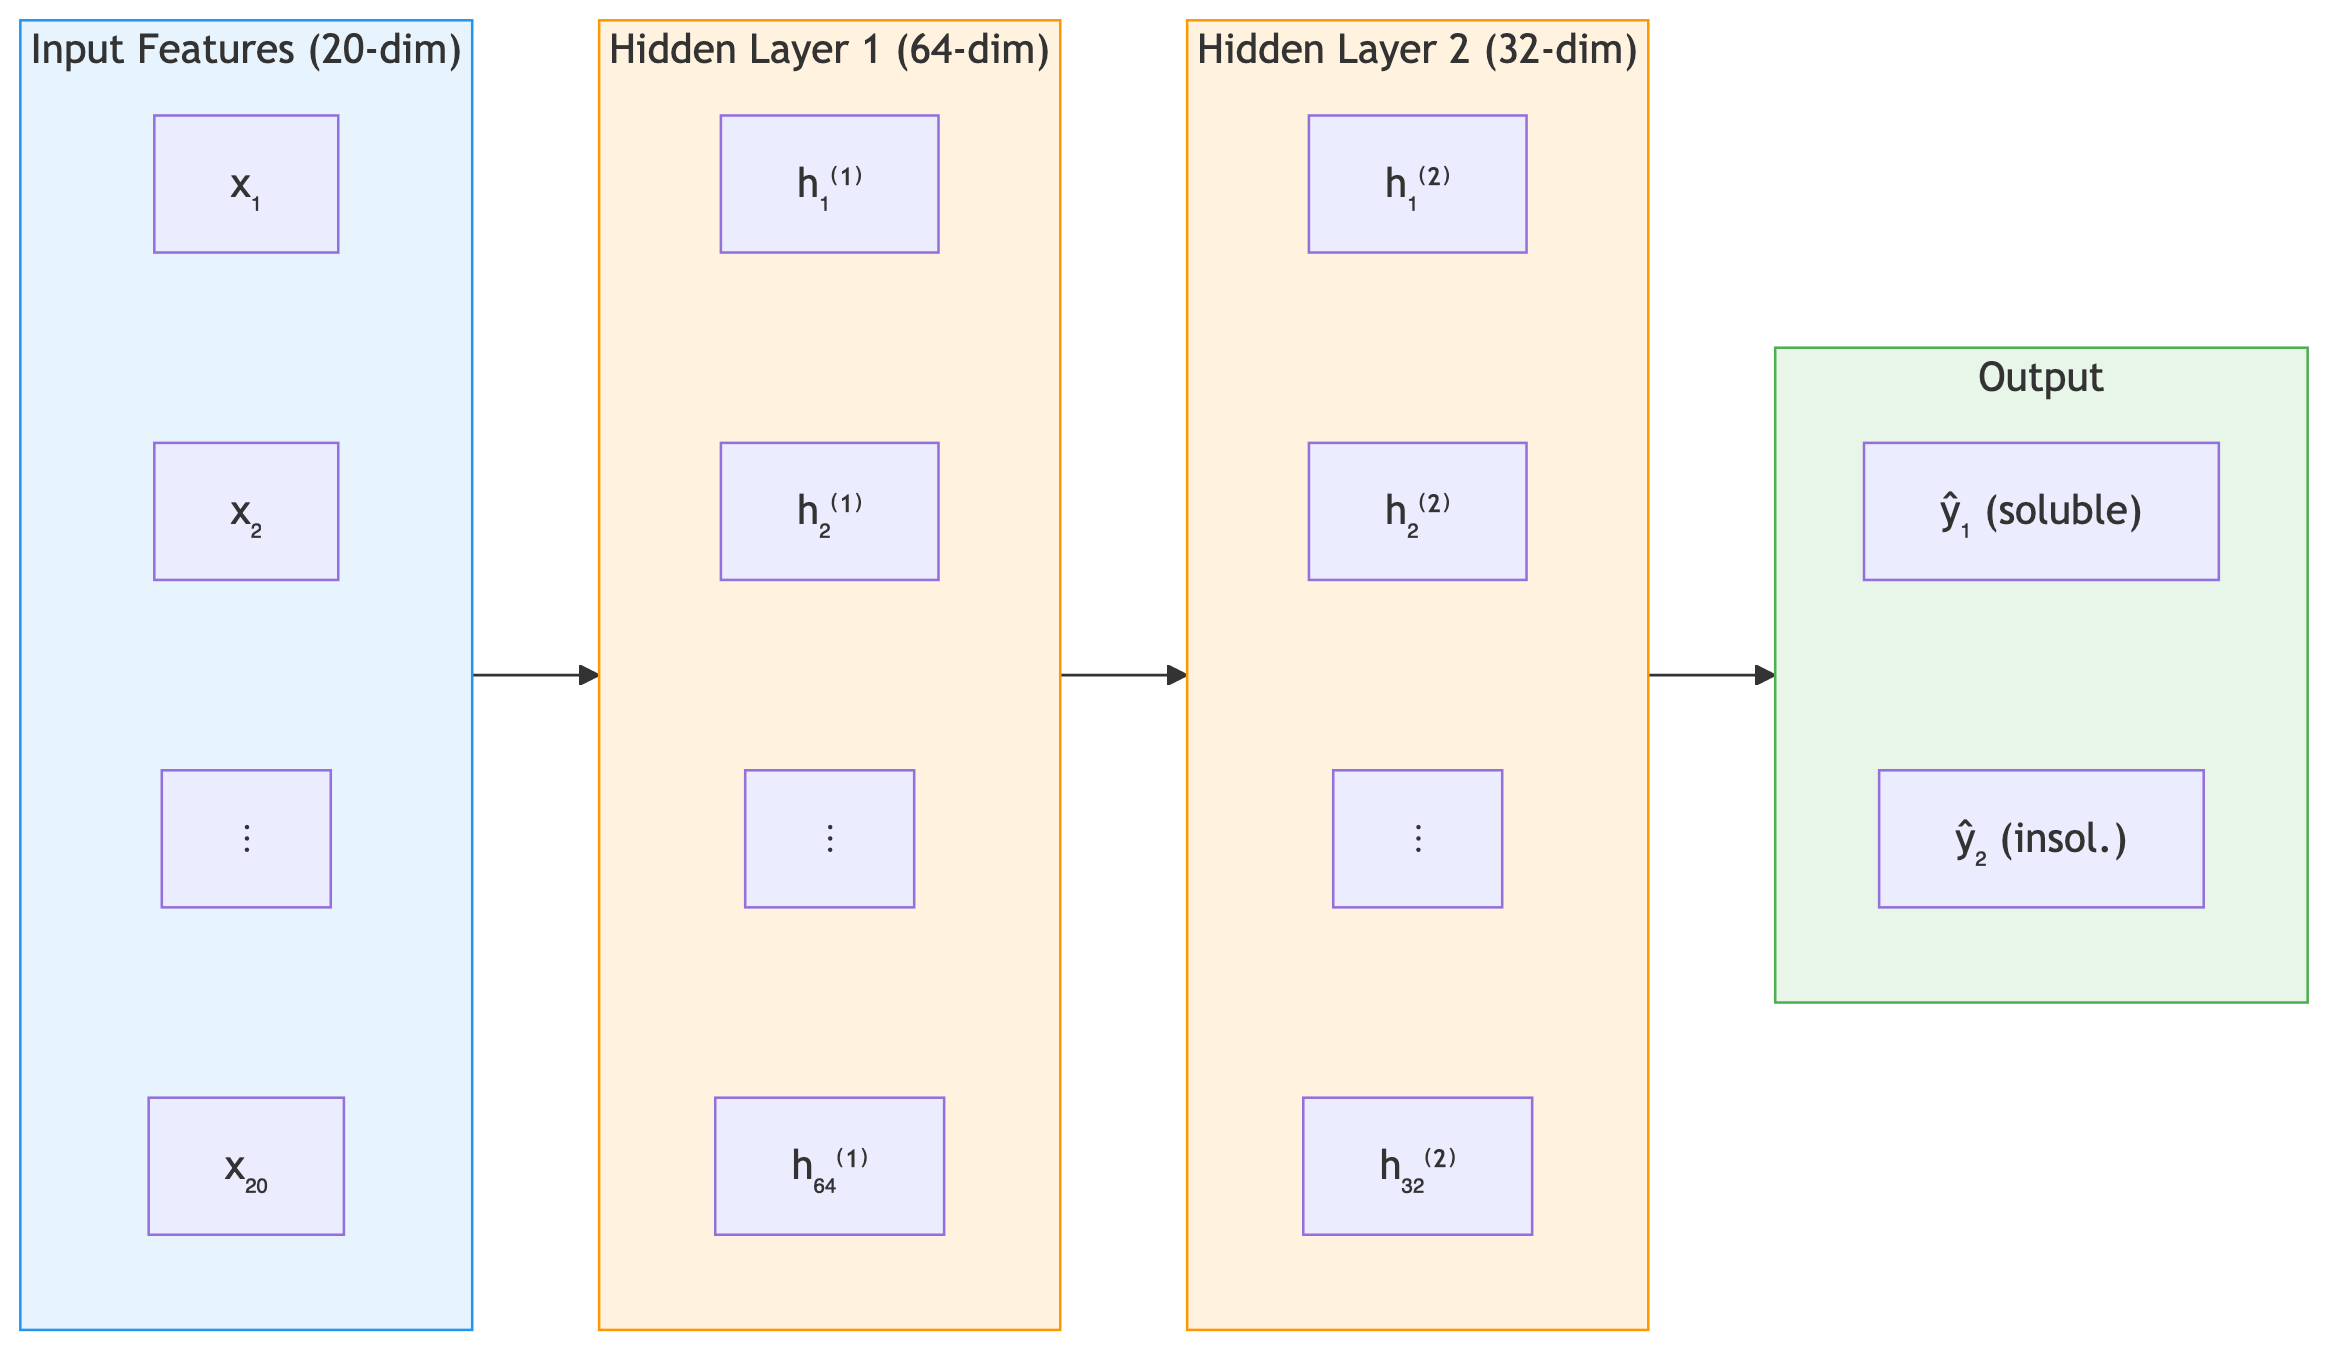
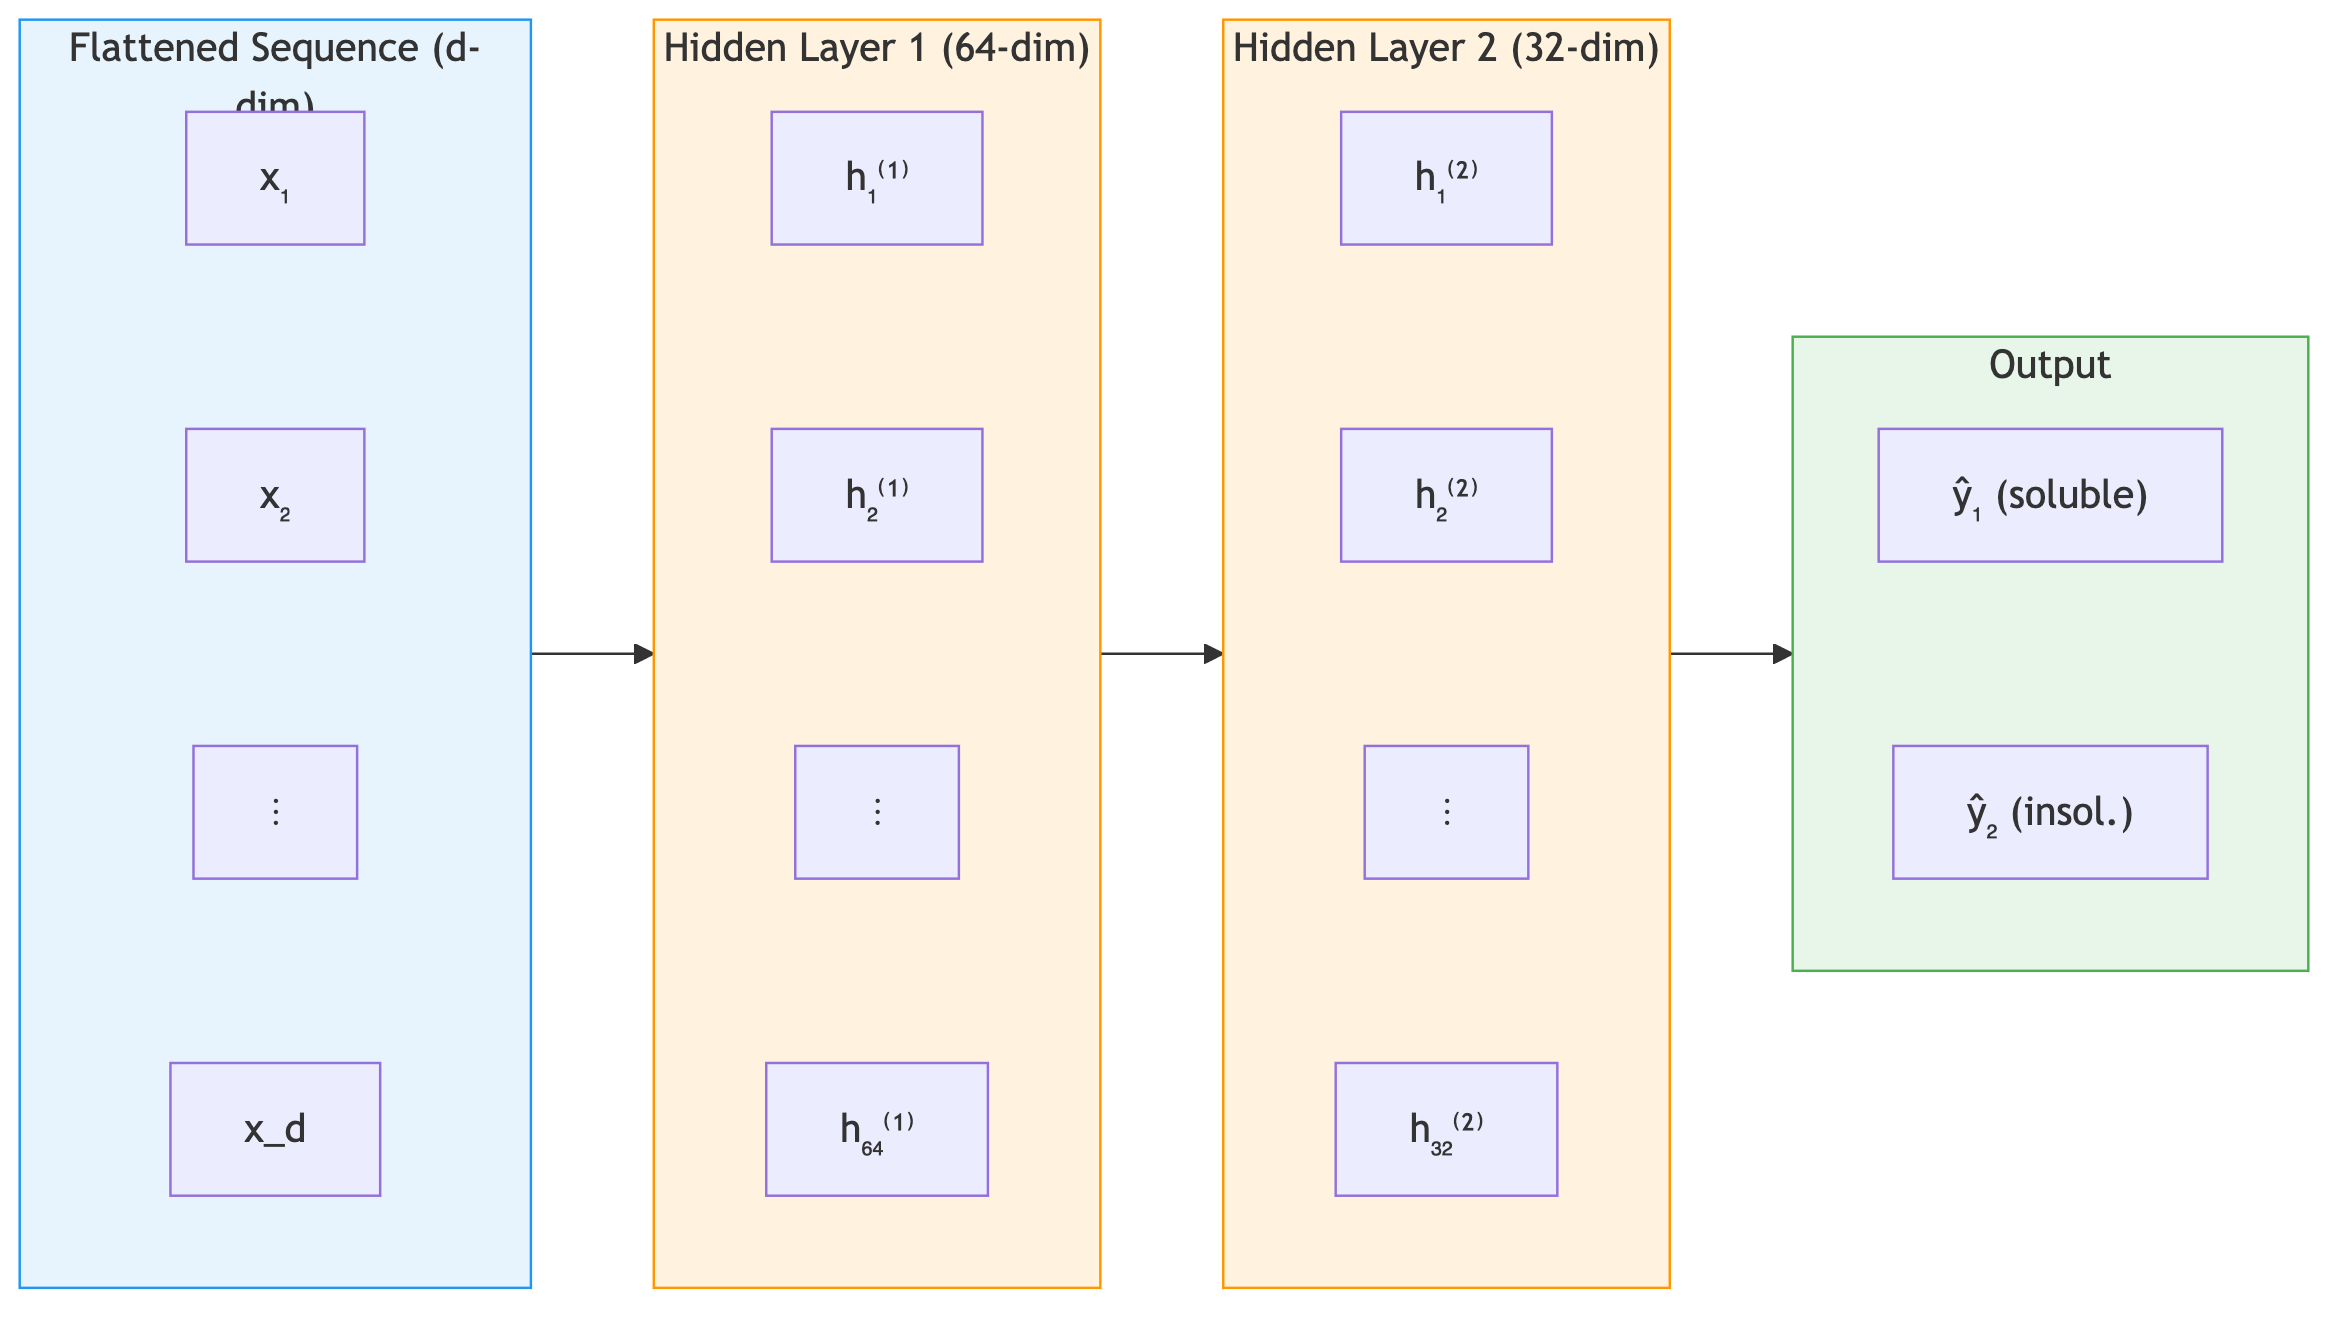
docs: Switch P2 to sequence-based features with padding and flattening
Replace composition-based 20-dim input with flattened padded one-hot
sequences (max_len × 20). Update dimension references throughout P2
Sections 2-3, MLP diagram, and P4 CNN motivation paragraph.

diff --git a/_teaching/protein-ai-s26-02-preliminary-protein-data.md b/_teaching/protein-ai-s26-02-preliminary-protein-data.md
@@ -248,7 +248,12 @@ Its limitation is that it treats every amino acid as equally different from ever
 
 A neural network does not process one protein at a time.
 Training requires **batches** --- groups of proteins processed together for computational efficiency.
-PyTorch provides `TensorDataset` and `DataLoader` to handle this.
+But proteins have different lengths, so we must **pad** every sequence to a common length before stacking them into a tensor.
+
+After one-hot encoding, each protein of length $$L$$ is a matrix of shape $$(L, 20)$$.
+We choose a fixed maximum length $$\text{max\_len}$$, pad shorter proteins with zero vectors, and truncate longer ones.
+Stacking $$B$$ proteins gives a 3D tensor of shape $$(B, \text{max\_len}, 20)$$.
+For an MLP, which expects a flat vector as input, we **flatten** each protein's matrix into a single vector of dimension $$\text{max\_len} \times 20$$.
 
 ```python
 from torch.utils.data import TensorDataset, DataLoader
@@ -257,36 +262,42 @@ from torch.utils.data import TensorDataset, DataLoader
 sequences = ["MGKIIGIDLG...", "MSKGEELFTG...", "MVLSPADKTN..."]
 labels = [1, 1, 0]  # 1 = soluble, 0 = insoluble
 
-# One-hot encode and pad to the same length
-max_len = max(len(s) for s in sequences)
+# One-hot encode and pad to a fixed maximum length
+max_len = 100  # Truncate longer proteins, pad shorter ones with zeros
 features = torch.zeros(len(sequences), max_len, 20)
 for i, seq in enumerate(sequences):
-    features[i, :len(seq)] = one_hot_encode(seq)
+    L = min(len(seq), max_len)
+    features[i, :L] = one_hot_encode(seq[:L])
 labels = torch.tensor(labels, dtype=torch.long)
 
-print(features.shape)  # torch.Size([3, max_len, 20]) — 3 proteins, padded
-print(labels.shape)     # torch.Size([3])
+print(features.shape)  # torch.Size([3, 100, 20]) — 3 proteins, padded
+
+# Flatten each protein's matrix into a single vector for the MLP
+features_flat = features.view(len(sequences), -1)
+print(features_flat.shape)  # torch.Size([3, 2000]) — ready for MLP input
 
 # Wrap in a dataset and data loader
-dataset = TensorDataset(features, labels)
+dataset = TensorDataset(features_flat, labels)
 loader = DataLoader(dataset, batch_size=32, shuffle=True)
 
 # Training loop iterates over batches
 for batch_features, batch_labels in loader:
-    # batch_features shape: (batch_size, max_len, 20)
+    # batch_features shape: (batch_size, 2000)
     # batch_labels shape:   (batch_size,)
     pass  # feed to neural network (Section 3)
 ```
 
 The `DataLoader` handles shuffling, batching, and iterating.
-Each call yields a batch of feature tensors and their corresponding labels, ready to be passed through a neural network.
+Each call yields a batch of flattened feature vectors and their corresponding labels, ready to be passed through a neural network.
+Note that flattening discards the sequential structure --- the MLP treats position 1 and position 100 as unrelated inputs.
+Preliminary Note 4 introduces convolutional networks that exploit the sequential ordering.
 
 ---
 
 ## 3. Neural Network Architectures
 
-We now have protein features --- one-hot encoded sequences --- packaged as PyTorch tensors.
-But a feature tensor is not a prediction.
+We now have protein features --- one-hot encoded sequences, padded and flattened into fixed-length vectors --- packaged as PyTorch tensors.
+But a feature vector is not a prediction.
 To predict whether a protein is soluble from its sequence features, we need a function that maps the input to an output.
 In Preliminary Note 1, we saw that a linear model $$\hat{y} = \mathbf{W}\mathbf{x} + b$$ can do this, but it is limited to straight-line relationships.
 Neural networks overcome this limitation by composing simple operations into powerful function approximators that learn internal **representations** --- abstract, task-relevant encodings of the input --- in their hidden layers.
@@ -313,7 +324,7 @@ $$
 
 This is exactly **logistic regression** --- the classification analogue of the linear regression we saw in Preliminary Note 1.
 The neuron's output is a probability, and the **decision boundary** is the set of points where $$\mathbf{w}^T \mathbf{x} + b = 0$$ (i.e., where the output probability is exactly 0.5).
-In 2D feature space, this boundary is a line; in 20-dimensional feature space, it is a hyperplane.
+In 2D feature space, this boundary is a line; in the high-dimensional space of our flattened sequence features, it is a hyperplane.
 Points on one side are classified as soluble, points on the other as insoluble.
 
 A single neuron can only learn linear decision boundaries.
@@ -327,23 +338,24 @@ This is sufficient for linearly separable problems but fails when the boundary b
 
 A single neuron is limited.
 But arrange many neurons in parallel --- each receiving the same input features but with *different* weights --- and you get a **layer**.
-With 64 neurons processing a 20-dimensional input, you get a 64-dimensional **representation** --- 64 different weighted combinations of the input features.
+With 64 neurons processing a $$d$$-dimensional input, you get a 64-dimensional **representation** --- 64 different weighted combinations of the input features.
 This can be written compactly as a matrix equation:
 
 $$
 \mathbf{h} = \sigma(\mathbf{W}\mathbf{x} + \mathbf{b})
 $$
 
-Let us trace the dimensions explicitly. With a 20-dimensional input:
+Let us trace the dimensions explicitly:
 
 $$
-\underbrace{\mathbf{W}}_{64 \times 20} \underbrace{\mathbf{x}}_{20 \times 1} + \underbrace{\mathbf{b}}_{64 \times 1} = \underbrace{\mathbf{z}}_{64 \times 1} \xrightarrow{\sigma} \underbrace{\mathbf{h}}_{64 \times 1}
+\underbrace{\mathbf{W}}_{64 \times d} \underbrace{\mathbf{x}}_{d \times 1} + \underbrace{\mathbf{b}}_{64 \times 1} = \underbrace{\mathbf{z}}_{64 \times 1} \xrightarrow{\sigma} \underbrace{\mathbf{h}}_{64 \times 1}
 $$
 
 Each row of $$\mathbf{W}$$ is one neuron's weight vector. Row $$k$$ computes the dot product $$\mathbf{w}_k^T \mathbf{x} + b_k$$, producing one scalar. Stack 64 such scalars and you get the 64-dimensional pre-activation vector $$\mathbf{z}$$, which becomes $$\mathbf{h}$$ after applying $$\sigma$$ element-wise.
 
 This is a **fully connected layer** (also called a **dense layer** or **linear layer**).
-The total number of parameters is $$64 \times 20 + 64 = 1{,}344$$ (weights plus biases).
+The total number of parameters is $$64d + 64$$ (weights plus biases).
+For our padded protein sequences with $$d = \text{max\_len} \times 20 = 2{,}000$$, that is already $$128{,}064$$ parameters in a single layer.
 
 The function $$\sigma$$ is called an **activation function** --- a nonlinear function applied element-wise after each linear transformation.
 Without it, stacking layers would be pointless: a linear transformation followed by another linear transformation is just a single linear transformation.
@@ -354,7 +366,7 @@ Other activations include **sigmoid** ($$\sigma(z) = 1/(1 + e^{-z})$$, used at t
 
 <div class="col-sm-8 mt-3 mb-3 mx-auto">
     <img class="img-fluid rounded" src="{{ '/assets/img/teaching/protein-ai/mermaid/s26-02-preliminary-protein-data_diagram_1.png' | relative_url }}" alt="A two-hidden-layer MLP for solubility prediction">
-    <div class="caption mt-1"><strong>A two-hidden-layer MLP for solubility prediction.</strong> The input (20-dim feature vector) is transformed through two hidden layers of decreasing width (64, 32), each applying a linear transformation followed by an activation function. The output layer produces two scores (soluble vs. insoluble).</div>
+    <div class="caption mt-1"><strong>A two-hidden-layer MLP for solubility prediction.</strong> The flattened padded sequence is transformed through two hidden layers of decreasing width (64, 32), each applying a linear transformation followed by an activation function. The output layer produces two scores (soluble vs. insoluble).</div>
 </div>
 
 The power of neural networks comes from stacking multiple layers.
@@ -378,8 +390,8 @@ Deeper networks can represent complex functions efficiently because each layer b
 
 For a protein solubility predictor, this compositional hierarchy might look like:
 
-- **Layer 1** learns representations that capture individual amino acid properties (charge, size, hydrophobicity) from the raw input features.
-- **Layer 2** combines these into higher-level representations: charge balance, hydrophobic fraction, amino acid diversity.
+- **Layer 1** detects which positions and amino acid identities are informative, extracting basic patterns from the flattened sequence.
+- **Layer 2** combines these into higher-level patterns: local composition trends, position-specific signals.
 - **Output layer** maps these abstract representations to a solubility prediction.
 
 In practice, deeper networks are not always better.
@@ -455,11 +467,11 @@ class SolubilityPredictor(nn.Module):
         out = self.fc2(h)  # Representation → prediction
         return out
 
-# 20 input features → 64-dim hidden representation → 2 classes
-model = SolubilityPredictor(input_dim=20, hidden_dim=64, output_dim=2)
+# Flattened padded sequences: max_len=100 × 20 amino acids = 2000-dim input
+model = SolubilityPredictor(input_dim=2000, hidden_dim=64, output_dim=2)
 
 # Pass a batch of 32 proteins through the model
-features = torch.randn(32, 20)  # 32 proteins, 20 features each
+features = torch.randn(32, 2000)  # 32 proteins, flattened padded sequences
 predictions = model(features)    # Shape: (32, 2) — scores for [soluble, insoluble]
 print(predictions.shape)
 ```

diff --git a/_teaching/protein-ai-s26-04-preliminary-improving-solubility.md b/_teaching/protein-ai-s26-04-preliminary-improving-solubility.md
@@ -70,9 +70,9 @@ We use the tools from Preliminary Note 3: binary cross-entropy loss, the `Protei
 
 ## 2. Sequence-Based Approach: 1D-CNN
 
-A simple approach to predicting solubility is to summarize the sequence as amino acid composition --- a 20-dimensional vector counting the fraction of each amino acid type --- and feed it to an MLP.
-That approach treats the sequence as a *bag of amino acids*: it knows how much alanine a protein contains, but not where that alanine is.
-Yet the *position* of amino acids matters.
+In Preliminary Note 2, we built an MLP on flattened, padded one-hot sequences.
+While the MLP can see every amino acid at every position, it treats each input dimension independently --- it must learn that "hydrophobic at position 10" matters without sharing that knowledge with position 200.
+More critically, the MLP has no built-in notion of *locality*.
 A cluster of five hydrophobic residues in a row is a strong signal for a transmembrane helix (likely insoluble), while the same five residues scattered throughout the sequence may have no effect.
 
 To detect such **local patterns**, we need an architecture that looks at neighboring positions together: the **convolutional neural network (CNN)**.
